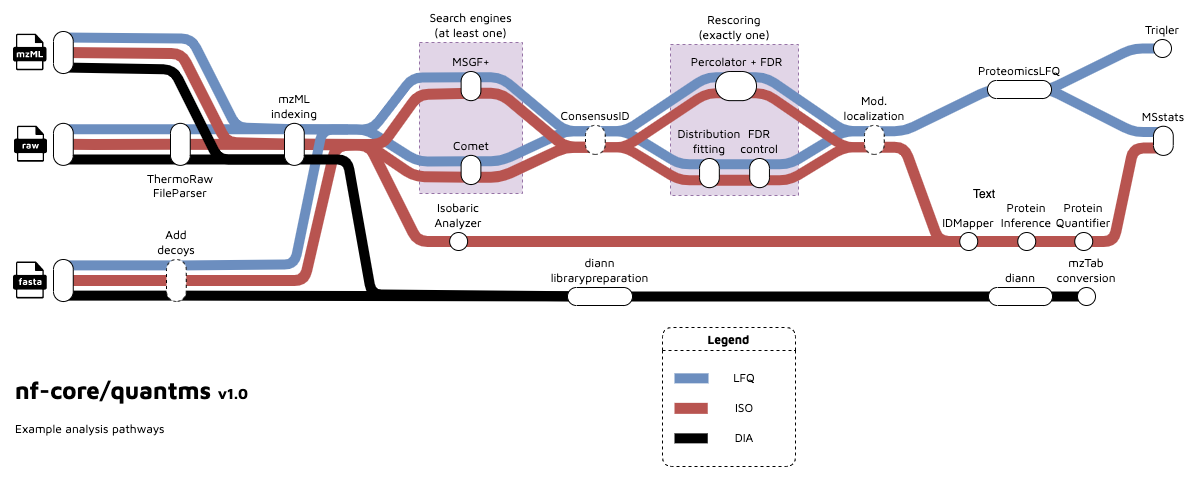
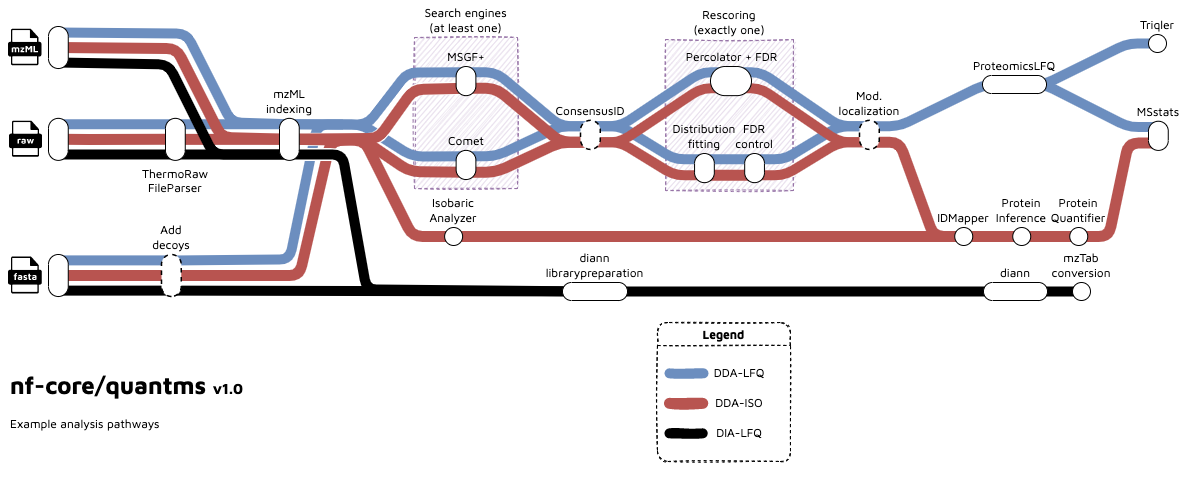
updates to metro graph

diff --git a/README.md b/README.md
@@ -34,7 +34,7 @@ On release, automated continuous integration tests run the pipeline on a full-si
 
 <!-- TODO nf-core: Fill in short bullet-pointed list of the default steps in the pipeline -->
 
-The quantms allows uses to perform analysis in three main type of analytical MS-based quantitative methods: DDA-LFQ, DAA-ISO, DIA-LFQ. Each of these workflows share some processes but also includes their own steps. In summary:
+The quantms allows uses to perform analysis in three main type of analytical MS-based quantitative methods: DDA-LFQ, DDA-ISO, DIA-LFQ. Each of these workflows share some processes but also includes their own steps. In summary:
 
 DDA-LFQ:
 
